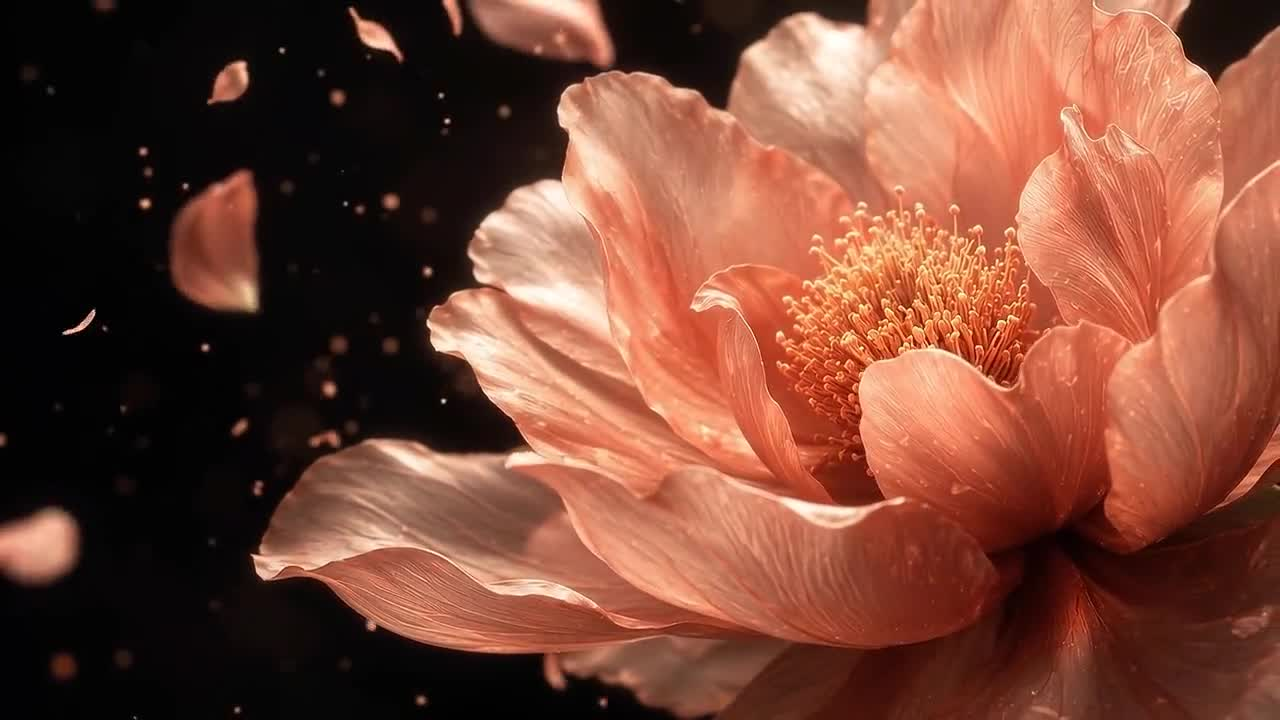
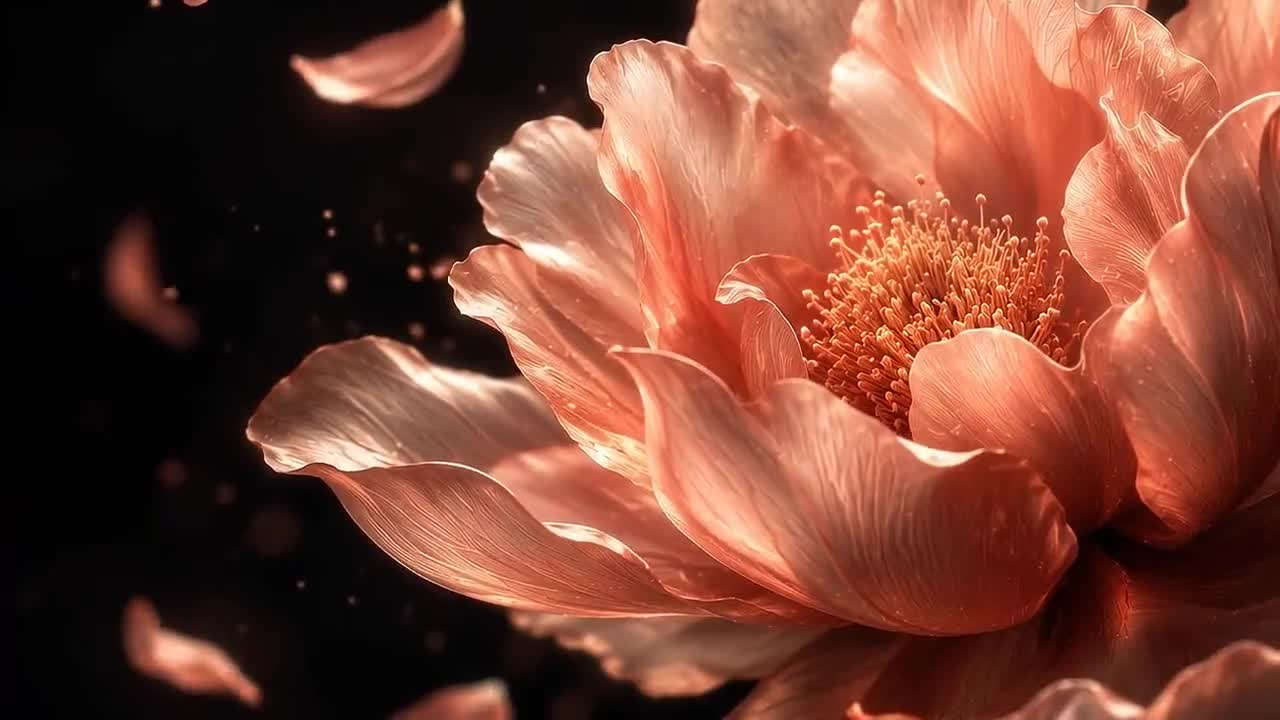
fix(footer): stop cropping the clip, and soften the left fade
The footer box was 2.06:1 while the clip is 16:9, so object-cover scaled the
video up 1.125x and cut 14% off the top and bottom. The drifting petals live
in exactly those bands, and the upscaled bloom reached to x=750 with the
headline ending at x=816.

- footer height now tracks the clip's aspect: clamp(560px, 56.25vw, 1010px).
  At 1440 that is 810px, an exact 16:9 box, so the frame renders uncropped.
- left fade carries two more stops so the headline column stays clear at
  every width
- poster regenerated from t=0.4, the widest framing in the clip

Verified uncropped at 1440 (1.78) and no horizontal overflow at 390/1440/1920.

Claude-Session: https://claude.ai/code/session_015Ap5iExLXEr2t1MXciu3cx

diff --git a/src/components/site/SiteFooter.tsx b/src/components/site/SiteFooter.tsx
@@ -75,7 +75,7 @@ export default function SiteFooter({ onOpenContact, onAskDipa }: SiteFooterProps
       ref={sectionRef}
       aria-label="Site footer and contact"
       className="relative isolate overflow-hidden bg-void text-ivory select-none-desktop"
-      style={{ minHeight: "clamp(560px, 78vh, 880px)" }}
+      style={{ minHeight: "clamp(560px, 56.25vw, 1010px)" }}
     >
       {/* Background layer: z-0 */}
       <div className="pointer-events-none absolute inset-0 z-0 bg-void" />
@@ -104,7 +104,7 @@ export default function SiteFooter({ onOpenContact, onAskDipa }: SiteFooterProps
           className="pointer-events-none absolute inset-0 z-[1]"
           style={{
             background:
-              "linear-gradient(90deg, #0A0A0B 0%, #0A0A0B 28%, rgba(10,10,11,0.85) 45%, rgba(10,10,11,0.2) 65%, transparent 100%)",
+              "linear-gradient(90deg, #0A0A0B 0%, #0A0A0B 30%, rgba(10,10,11,0.88) 48%, rgba(10,10,11,0.34) 66%, rgba(10,10,11,0.06) 84%, transparent 100%)",
           }}
         />
 
@@ -128,7 +128,7 @@ export default function SiteFooter({ onOpenContact, onAskDipa }: SiteFooterProps
       </div>
 
       {/* Main Content Layout Container: z-10 */}
-      <div className="relative z-10 mx-auto flex min-h-[clamp(560px,78vh,880px)] w-full max-w-7xl flex-col justify-between px-6 py-12 sm:px-10 md:px-14 lg:px-16">
+      <div className="relative z-10 mx-auto flex min-h-[clamp(560px,56.25vw,1010px)] w-full max-w-7xl flex-col justify-between px-6 py-12 sm:px-10 md:px-14 lg:px-16">
         {/* Top spacer to balance vertical optical center */}
         <div className="hidden lg:block h-6" />
 
